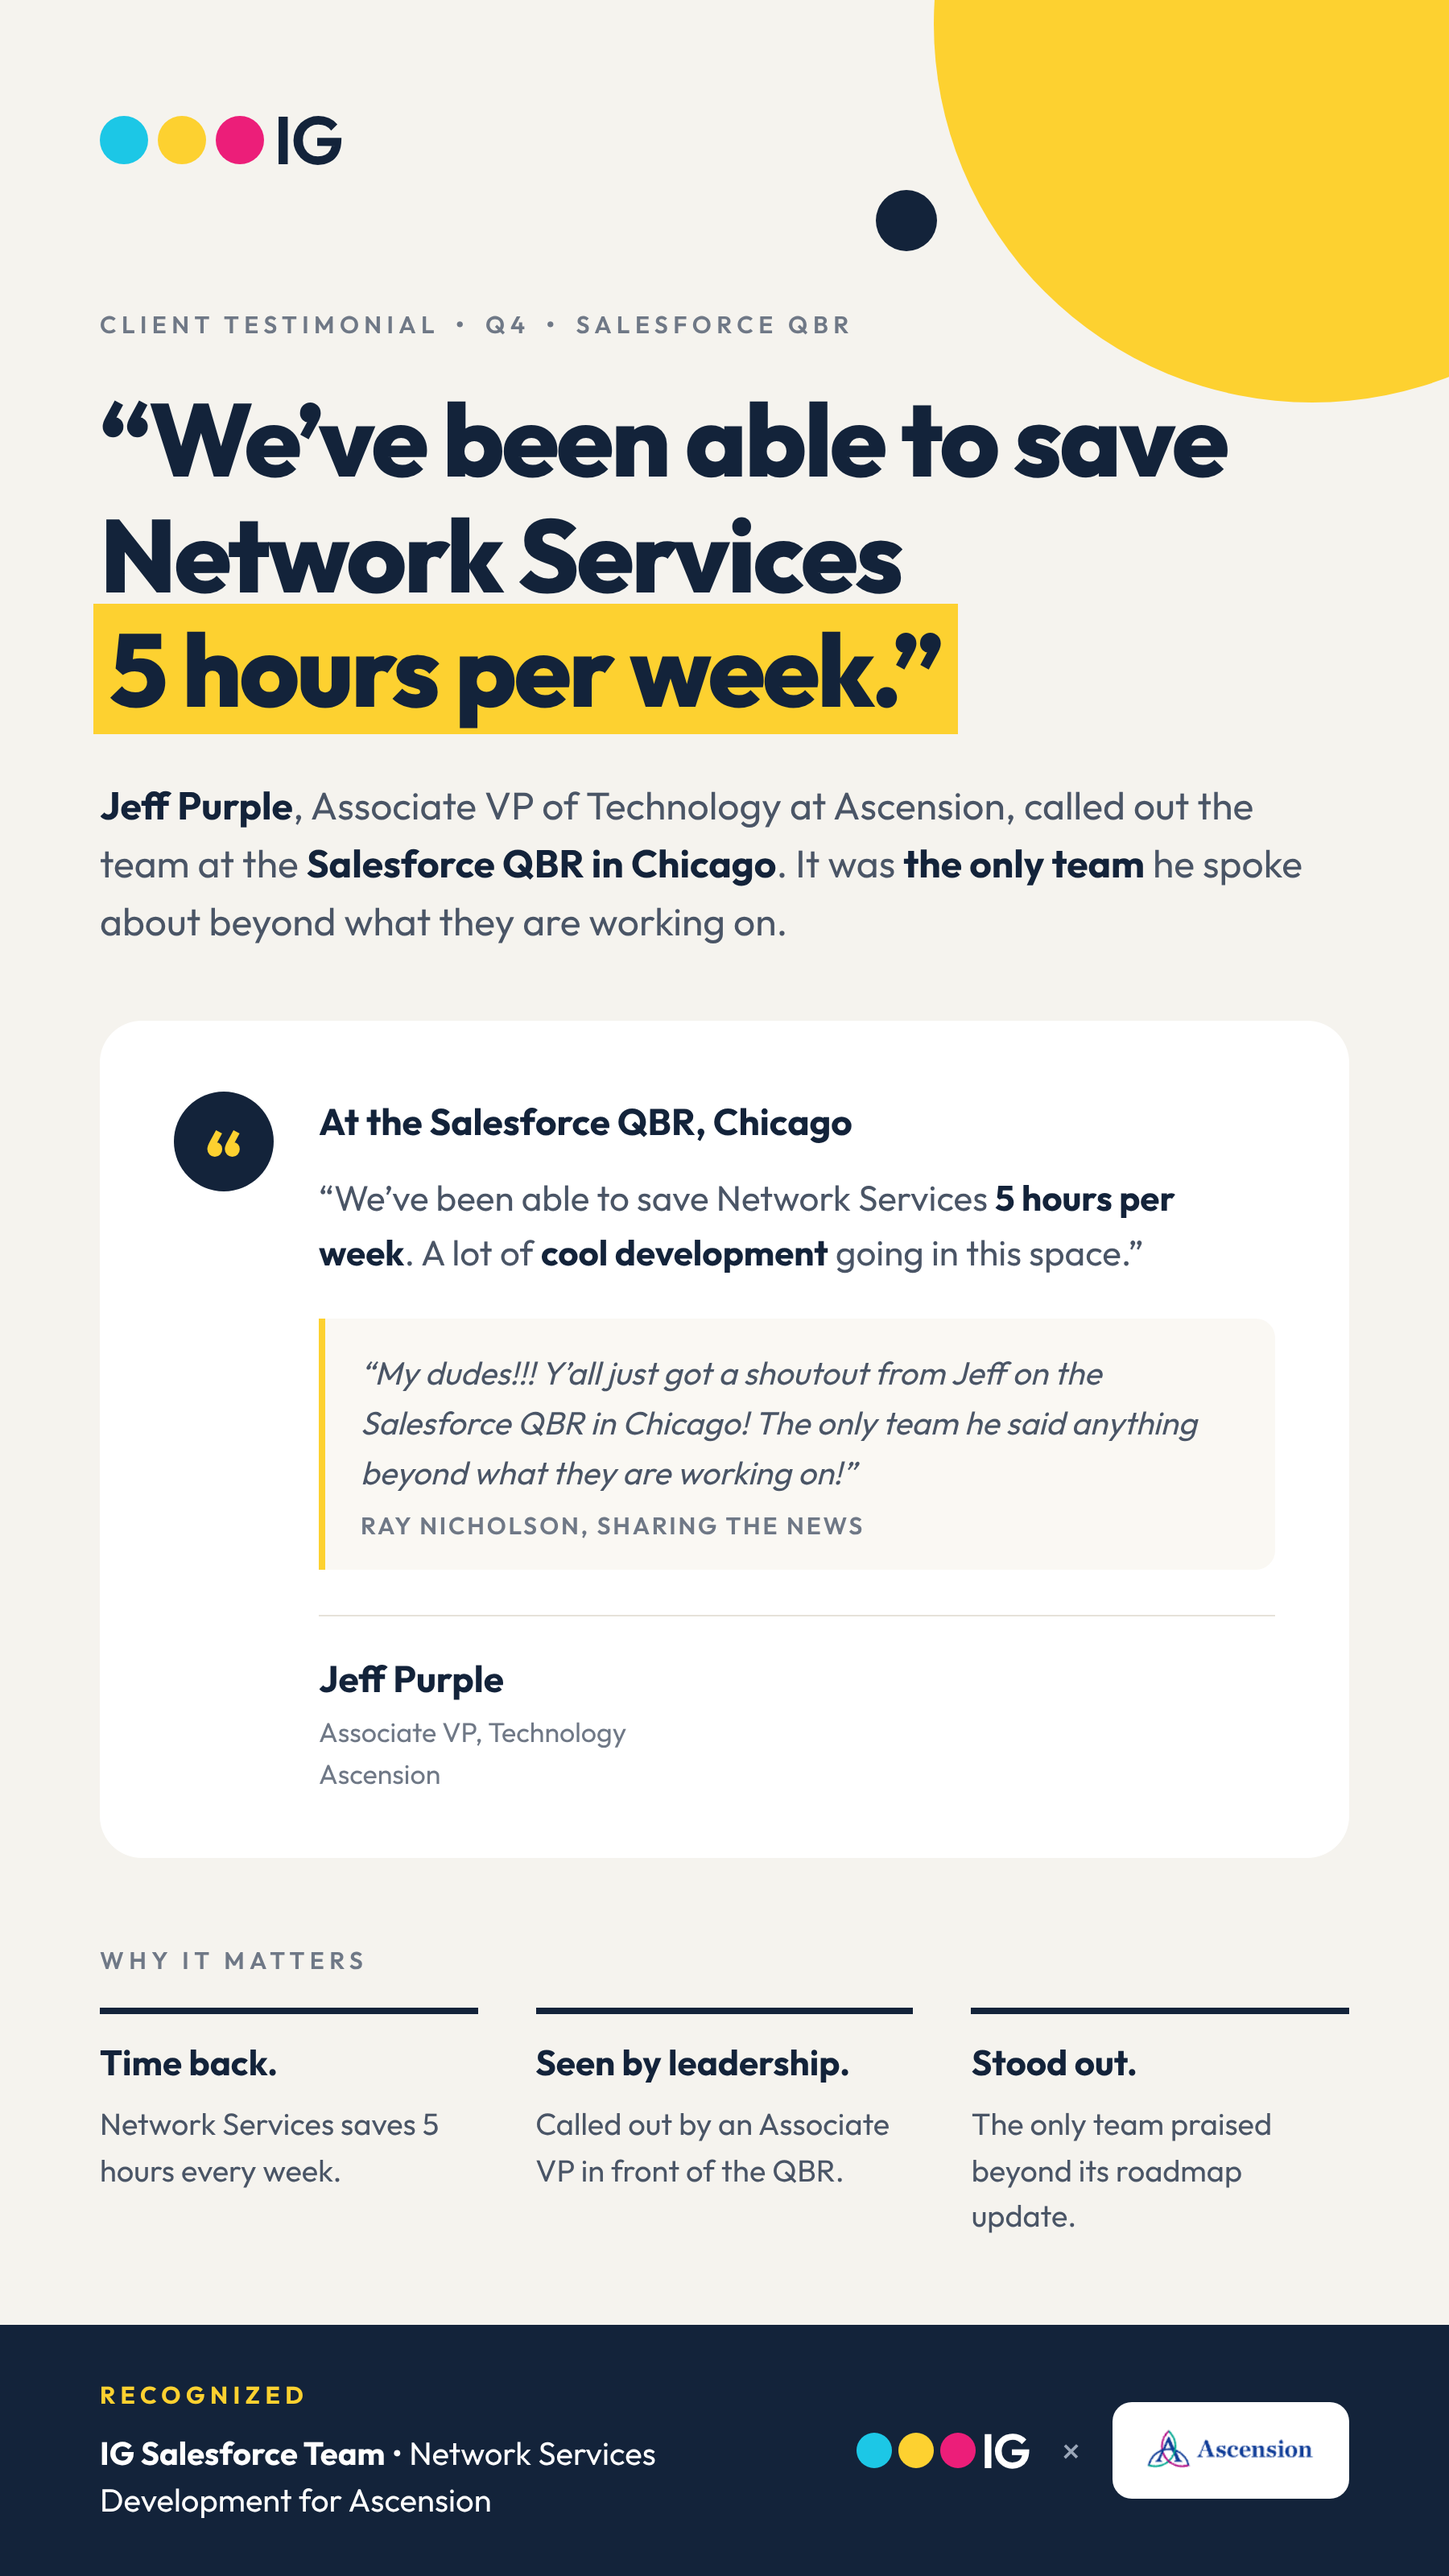
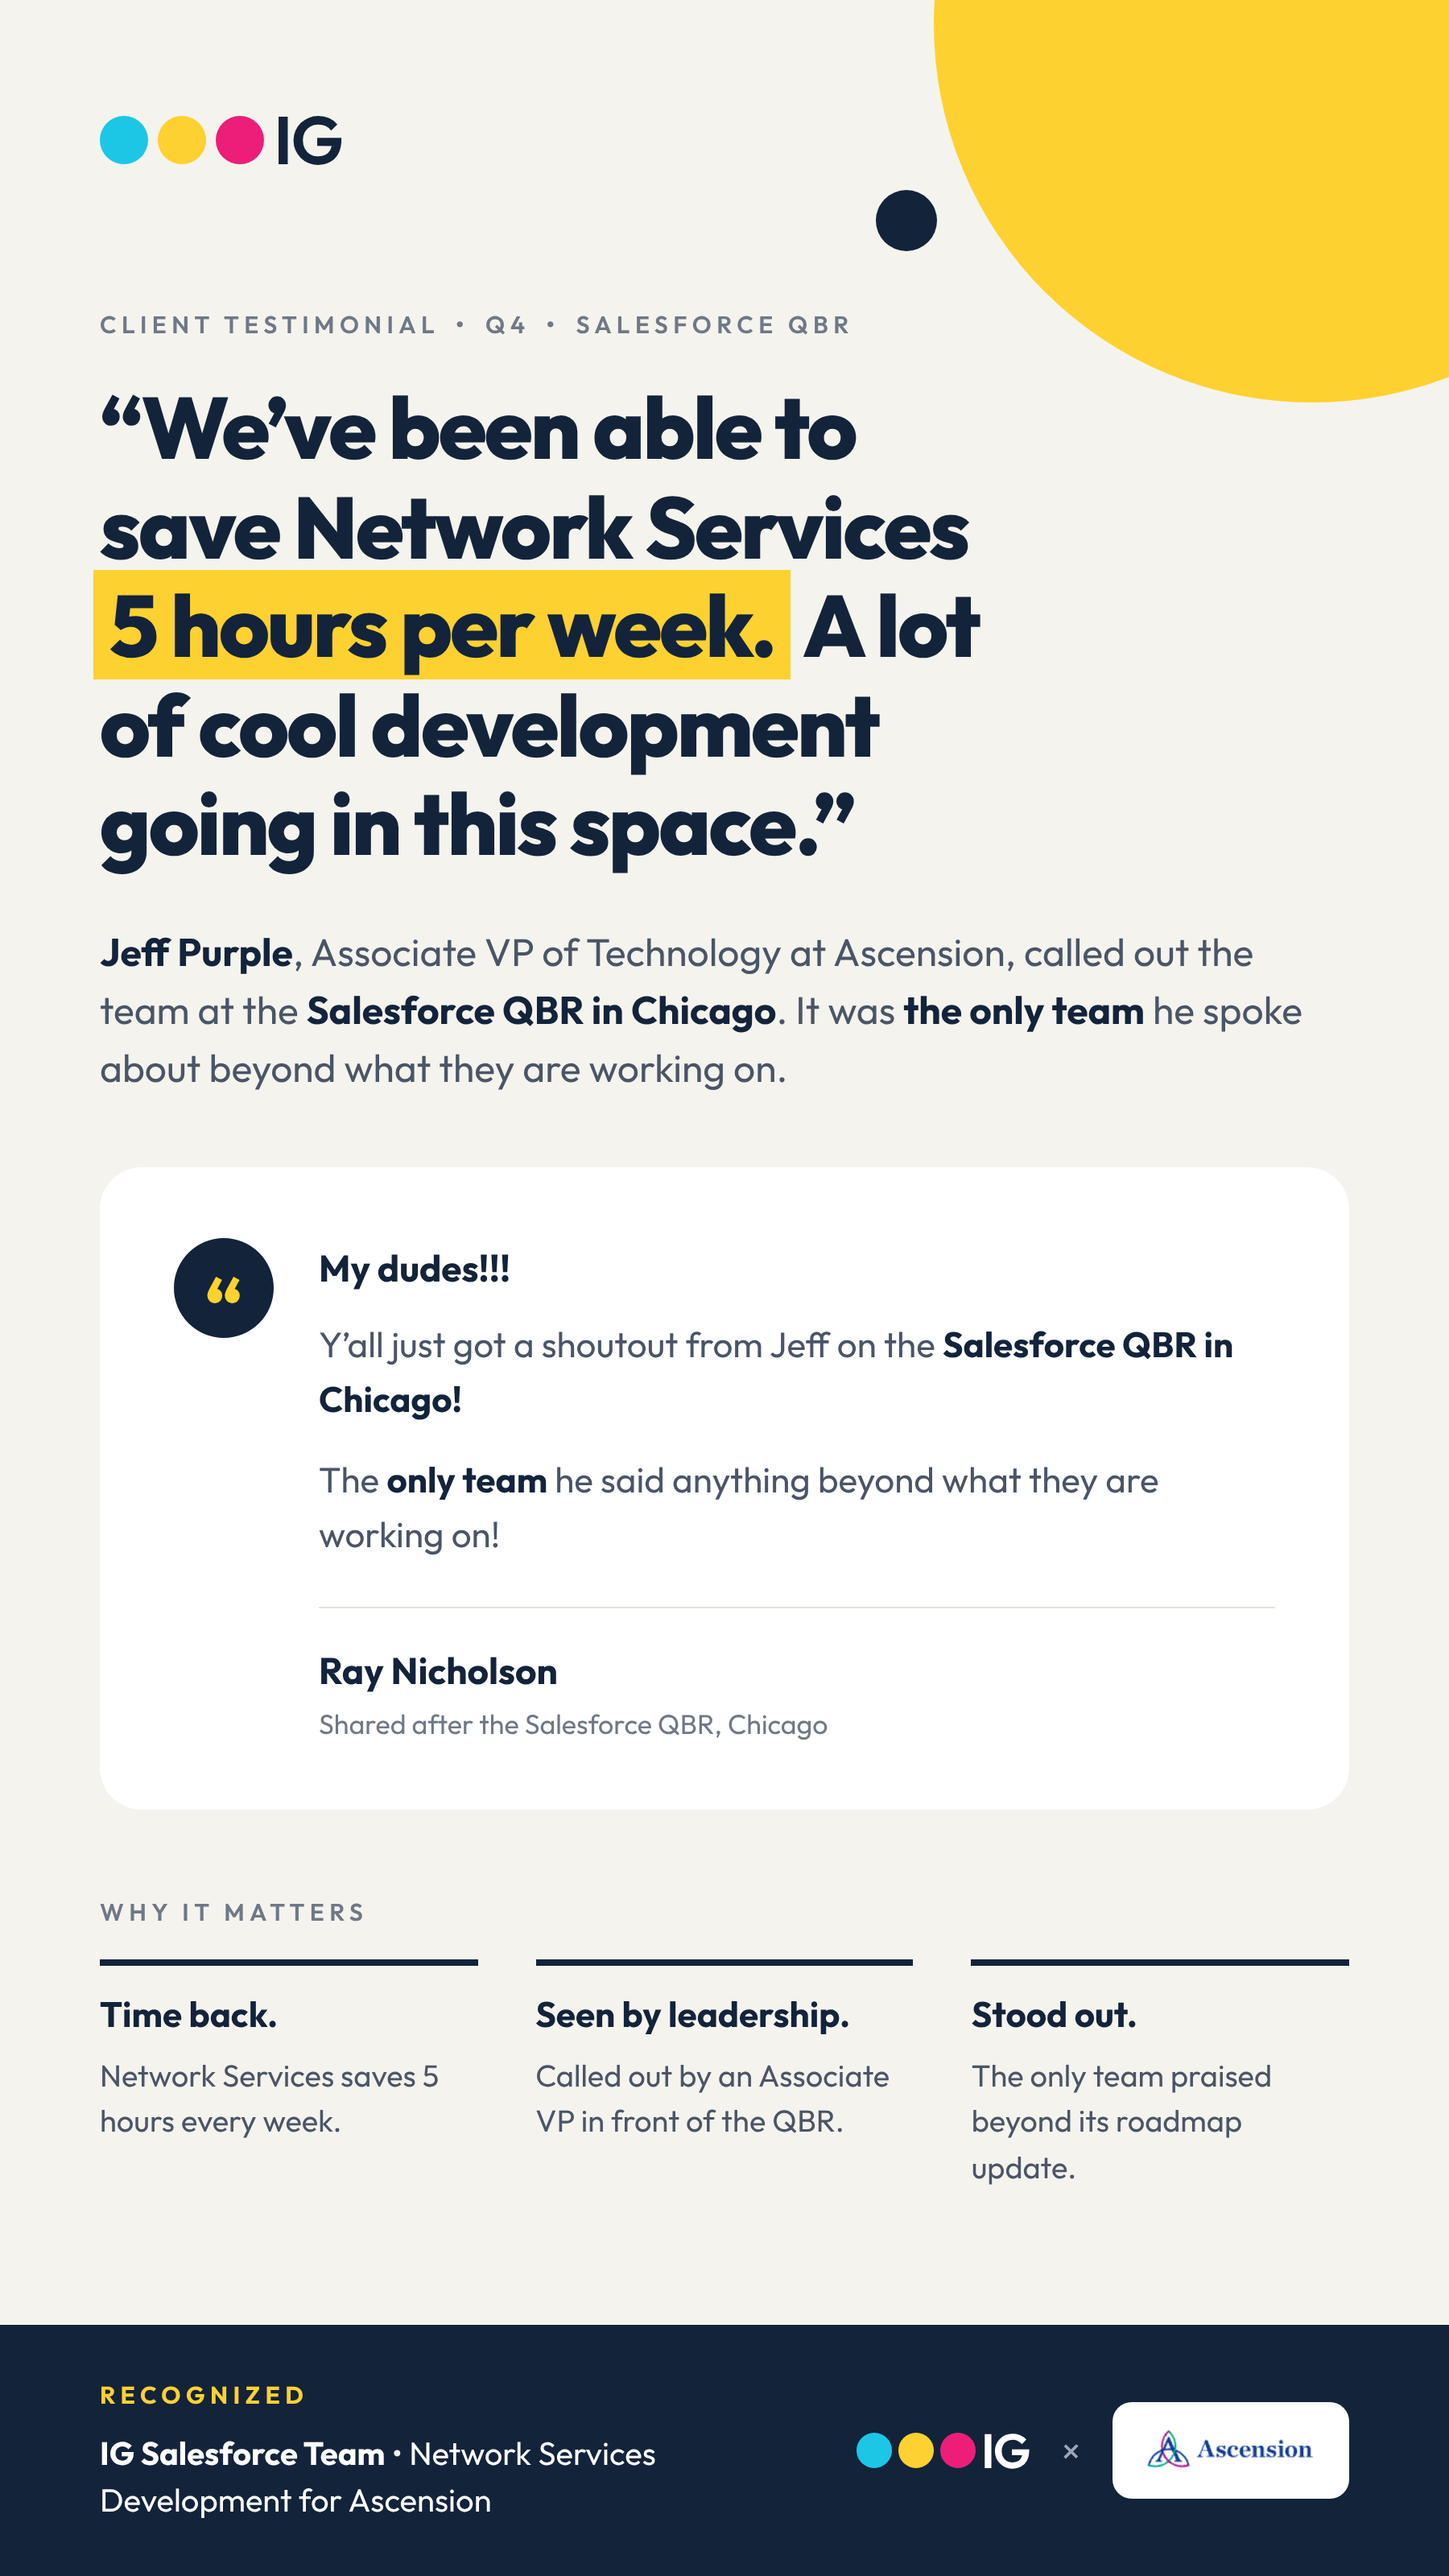
Use Jeff's full QBR quote as the poster headline
The card now carries Ray Nicholson's message so the quote isn't repeated.

Claude-Session: https://claude.ai/code/session_014eMHfNsmmRaRWKk6rs5B3f

diff --git a/docs/appreciation/ascension-salesforce-qbr.html b/docs/appreciation/ascension-salesforce-qbr.html
@@ -45,7 +45,7 @@
   .eyebrow { margin-top: 84px; font-size: 15px; font-weight: 600; letter-spacing: 3.2px; text-transform: uppercase; color: var(--muted); }
   .eyebrow b { padding: 0 10px; font-weight: 700; }
 
-  h1 { margin-top: 26px; font-size: 64px; line-height: 1.12; font-weight: 800; letter-spacing: -1.6px; }
+  h1 { margin-top: 24px; font-size: 54px; line-height: 1.14; font-weight: 800; letter-spacing: -1.4px; text-wrap: balance; }
   h1 mark { background: var(--yellow); color: var(--ink); padding: 0 10px; margin-left: -4px; box-decoration-break: clone; -webkit-box-decoration-break: clone; }
 
   .intro { margin-top: 30px; font-size: 24px; line-height: 1.5; color: var(--body); }
@@ -89,22 +89,19 @@
 
     <div class="eyebrow">Client testimonial<b>&bull;</b>Q4<b>&bull;</b>Salesforce QBR</div>
 
-    <h1>&ldquo;We&rsquo;ve been able to save Network Services<br><mark>5 hours per week.&rdquo;</mark></h1>
+    <h1>&ldquo;We&rsquo;ve been able to save Network Services <mark>5&nbsp;hours per&nbsp;week.</mark> A lot of cool development going in this space.&rdquo;</h1>
 
     <p class="intro"><strong>Jeff Purple</strong>, Associate VP of Technology at Ascension, called out the team at the <strong>Salesforce QBR in Chicago</strong>. It was <strong>the only team</strong> he spoke about beyond what they are working on.</p>
 
     <div class="card">
       <div class="q">&ldquo;</div>
       <div>
-        <div class="card-label">At the Salesforce QBR, Chicago</div>
-        <p>&ldquo;We&rsquo;ve been able to save Network Services <strong>5 hours per week</strong>. A lot of <strong>cool development</strong> going in this space.&rdquo;</p>
-        <div class="relay">
-          <p>&ldquo;My dudes!!! Y&rsquo;all just got a shoutout from Jeff on the Salesforce QBR in Chicago! The only team he said anything beyond what they are working on!&rdquo;</p>
-          <span>Ray Nicholson, sharing the news</span>
-        </div>
+        <div class="card-label">My dudes!!!</div>
+        <p>Y&rsquo;all just got a shoutout from Jeff on the <strong>Salesforce QBR in Chicago!</strong></p>
+        <p>The <strong>only team</strong> he said anything beyond what they are working on!</p>
         <div class="sig">
-          <h3>Jeff Purple</h3>
-          <div>Associate VP, Technology<br>Ascension</div>
+          <h3>Ray Nicholson</h3>
+          <div>Shared after the Salesforce QBR, Chicago</div>
         </div>
       </div>
     </div>
